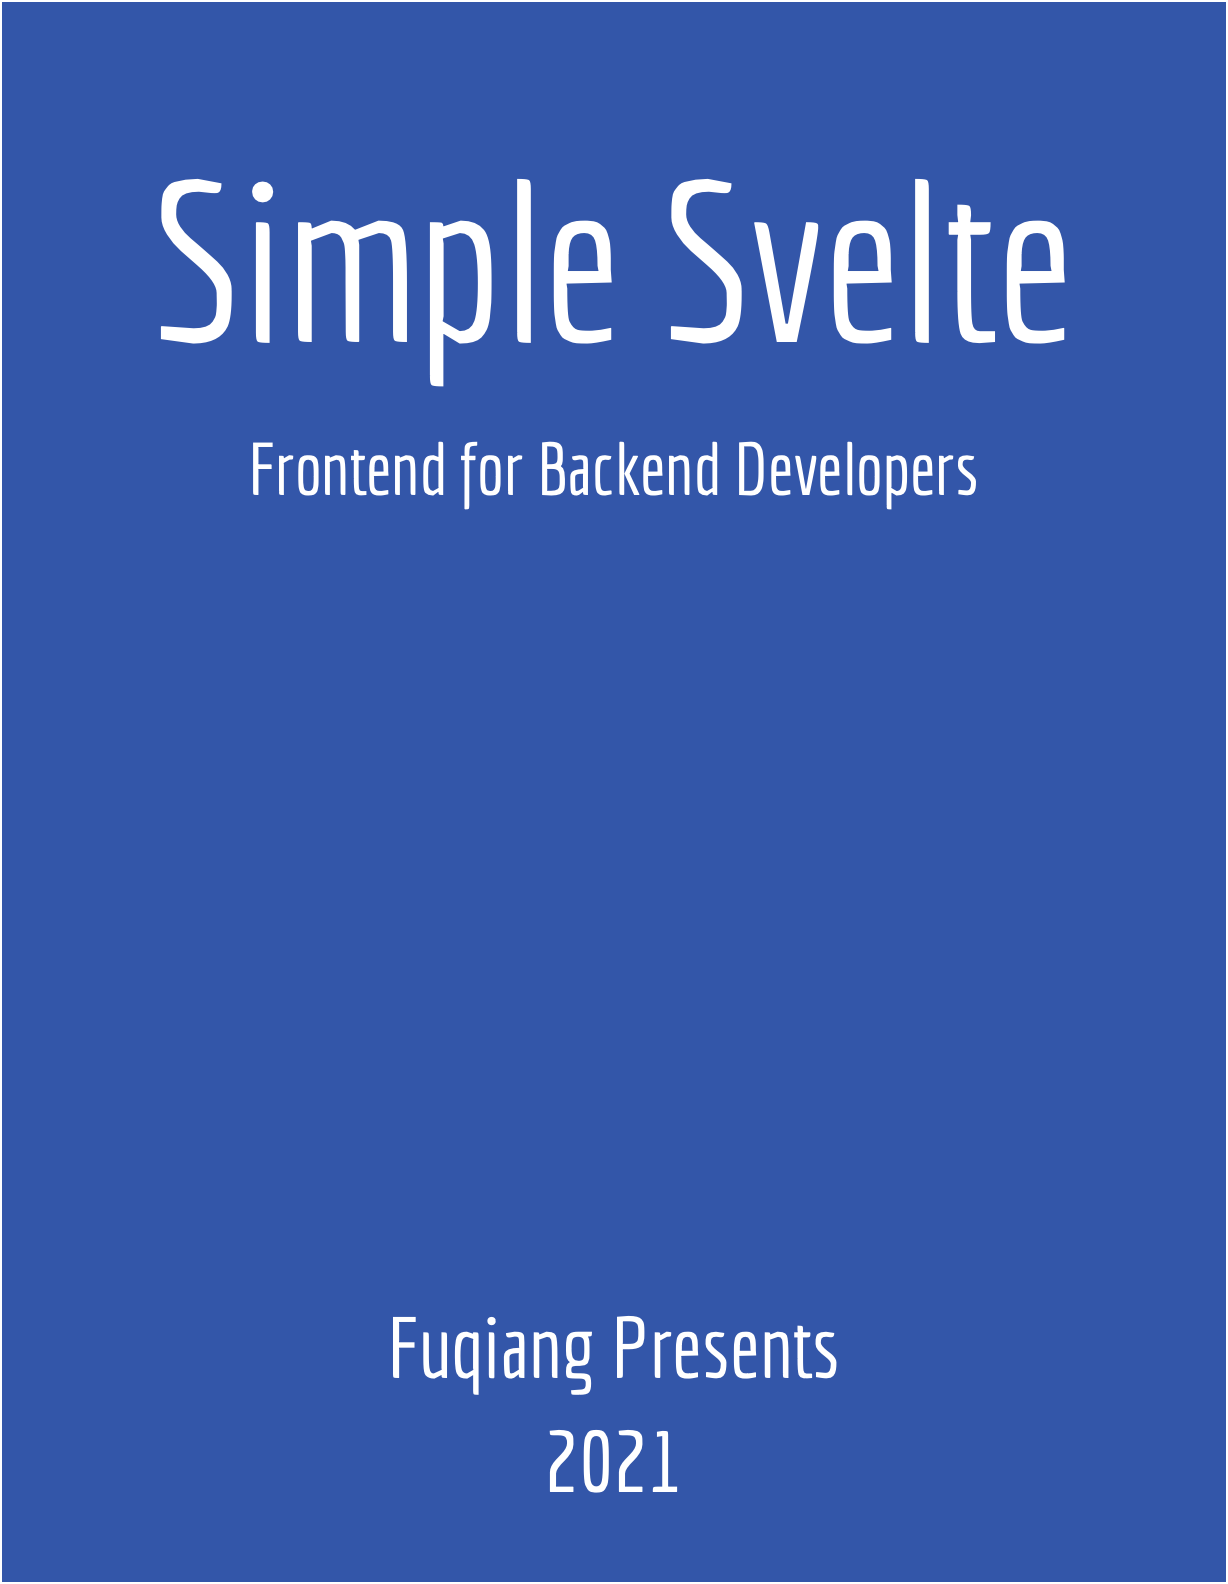
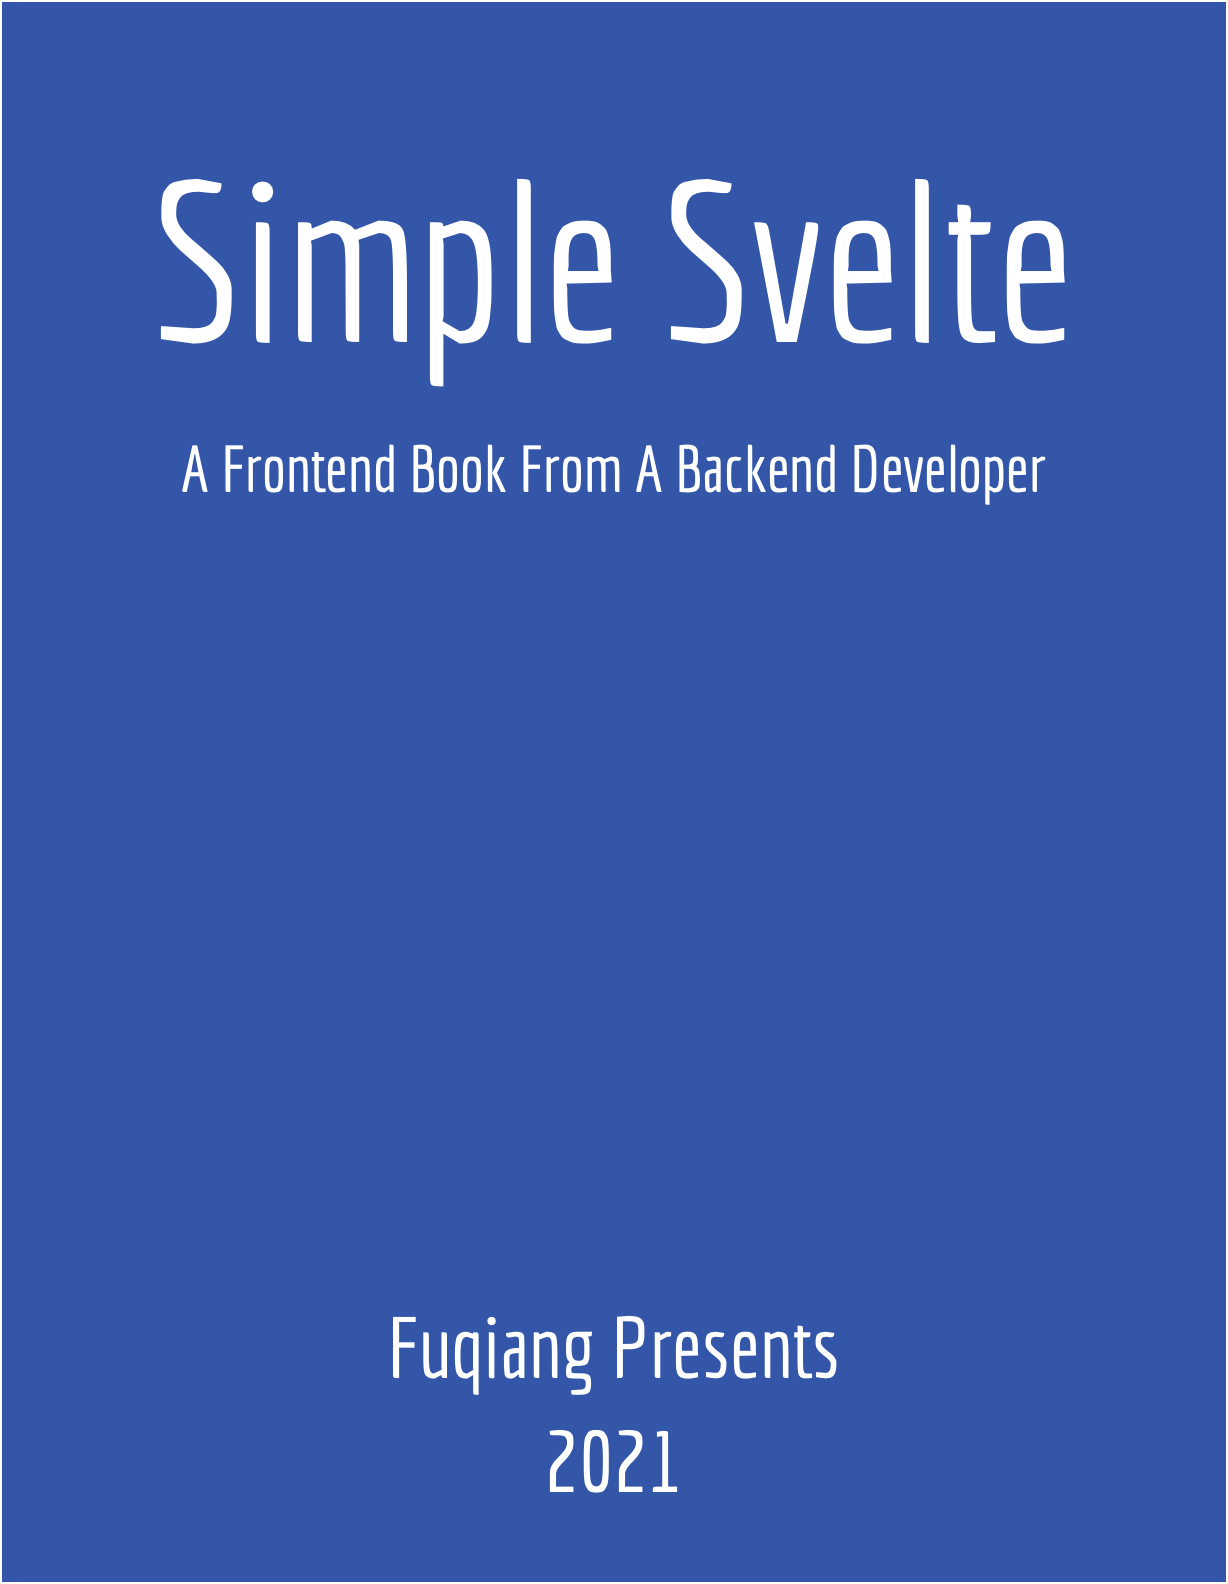
packup

Changed region(s): [[0.1547, 0.2784, 0.8664, 0.3403]]

diff --git a/books.html b/books.html
@@ -11,7 +11,8 @@
   <link rel="shortcut icon" href="/favicon.ico"> 
   <style type="text/css">code{white-space: pre;}</style> 
   <link rel="stylesheet" href="https://cdn.jsdelivr.net/npm/gitalk@1/dist/gitalk.css"> 
-  <script src="https://cdn.jsdelivr.net/npm/gitalk@1/dist/gitalk.min.js"></script> <!-- Bootstrap core CSS --> 
+  <script src="https://cdn.jsdelivr.net/npm/gitalk@1/dist/gitalk.min.js"></script> 
+  <script type="text/javascript" src="/js/watermark.js"></script> <!-- Bootstrap core CSS --> 
   <link href="/vendor/bootstrap/css/bootstrap.min.css" rel="stylesheet"> <!-- Custom fonts for this template --> 
   <link href="/vendor/fontawesome-free/css/all.min.css" rel="stylesheet" type="text/css"> <!-- Custom styles for this template --> 
   <link href="/css/freelancer.css" rel="stylesheet"> <!--    <link href="/ivy.css" rel="stylesheet">--> <!-- 百度统计 --> 
@@ -51,7 +52,7 @@
      <li><a href="#深度思考揭秘aka.-the-way-of-deep-thinking"><span class="toc-section-number">3</span> 《深度思考揭秘》aka. 《The Way of Deep Thinking》</a></li> 
      <li><a href="#技术商业与人"><span class="toc-section-number">4</span> <span>《技术、商业与人》</span></a></li> 
      <li><a href="#极简管理课"><span class="toc-section-number">5</span> 《极简管理课》</a></li> 
-     <li><a href="#simple-svelte-frontend-for-backend-developers-in_progress"><span class="toc-section-number">6</span> 《Simple Svelte: Frontend for Backend Developers》 <sup>in_progress</sup></a></li> 
+     <li><a href="#simple-svelte-a-frontend-book-from-a-backend-developer-in_progress"><span class="toc-section-number">6</span> 《Simple Svelte: A Frontend Book From A Backend Developer》 <sup>in_progress</sup></a></li> 
      <li><a href="#福鱼画册-免费free_of_charge"><span class="toc-section-number">7</span> <span>《福鱼画册》</span> <sup>免费(free_of_charge)</sup></a></li> 
      <li><a href="#坑获"><span class="toc-section-number">8</span> 《坑获》</a></li> 
      <li><a href="#购买渠道与支付方式"><span class="toc-section-number">9</span> 购买渠道与支付方式</a></li> 
@@ -79,7 +80,7 @@
     <p>管理的观点说多也多， 所以收敛沉淀出自己的管理心法与策略最好！</p> 
     <hr> 
     <p>另附个人有关管理的分享(视频回放) <a href="https://youtu.be/tIPwf7KKinc"><img src="images/mgt_talk_cover.jpg"></a></p> 
-    <h1 data-number="6" id="simple-svelte-frontend-for-backend-developers-in_progress"><span class="header-section-number">6</span> 《Simple Svelte: Frontend for Backend Developers》 <sup>in_progress</sup></h1> 
+    <h1 data-number="6" id="simple-svelte-a-frontend-book-from-a-backend-developer-in_progress"><span class="header-section-number">6</span> 《Simple Svelte: A Frontend Book From A Backend Developer》 <sup>in_progress</sup></h1> 
     <blockquote> 
      <p>NOTE</p> 
      <p>This is a pure English Tech book for svelte3, not deemed for Chinese readers.</p> 
@@ -114,14 +115,15 @@
     <div> <a href="/posts.html"> <b> &gt;&gt;&gt;&gt;&gt;&gt; 更多阅读 &lt;&lt;&lt;&lt;&lt;&lt; </b></a> 
     </div> 
     <div id="random_posts"> 
-     <div class="alert alert-light" role="alert"> <a href="/posts/2010-02-18-neighbour-next-door.html">邻家趣事 </a> 
+     <div class="alert alert-light" role="alert"> <a href="/posts/2013-06-25-logging-framework-explained.html">Logging Framework Explained (afoo.me) </a> 
      </div> 
-     <div class="alert alert-light" role="alert"> <a href="/posts/2018-06-04-blockchain-thoughts.html">关于区块链的三点看法 </a> 
+     <div class="alert alert-light" role="alert"> <a href="/posts/2015-07-16-explorer-like-the-blind-man-explore-the-elephant.html">我为什么要做瞎子摸象的践行者 </a> 
      </div> 
-     <div class="alert alert-light" role="alert"> <a href="/posts/2017-04-17-be-pragmatic.html">多务实， 少炫技 </a> 
+     <div class="alert alert-light" role="alert"> <a href="/posts/2007-05-30-ger.html">个，这个字 </a> 
      </div> 
     </div> 
     <hr> 
+    <img src="/images/zanshang.jpg" width="300/"> 
     <div id="comments"></div> 
     <hr> 
     <div class="text-center"> 
@@ -129,6 +131,9 @@
     </div> 
    </div> 
   </section> 
+  <div style="color:white; visibility: collapse; height: 0;">
+   ©王福强个人版权所有, All Rights Reserved.
+  </div> 
   <div class="copyright py-4 text-center text-white"> 
    <div class="container"> <small>Copyright © 王福强个人版权所有 - Since 2004</small> 
    </div> 
@@ -146,5 +151,6 @@ var gitalk = new Gitalk({
 
 gitalk.render('comments')
     </script>  
+  <script>watermark.init({ watermark_txt: "©王福强个人版权所有, All Rights Reserved." , watermark_width:200})</script> 
  </body>
 </html>

diff --git a/books.md b/books.md
@@ -49,7 +49,7 @@
 
 
 
-# 《Simple Svelte: Frontend for Backend Developers》 ^in_progress^
+# 《Simple Svelte: A Frontend Book From A Backend Developer》 ^in_progress^
 
 > NOTE
 > 
